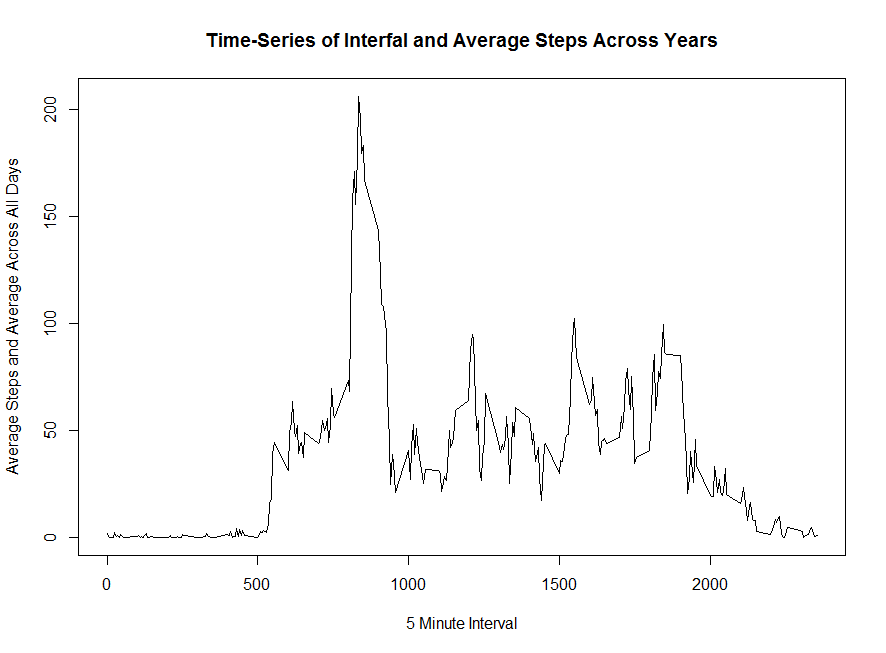
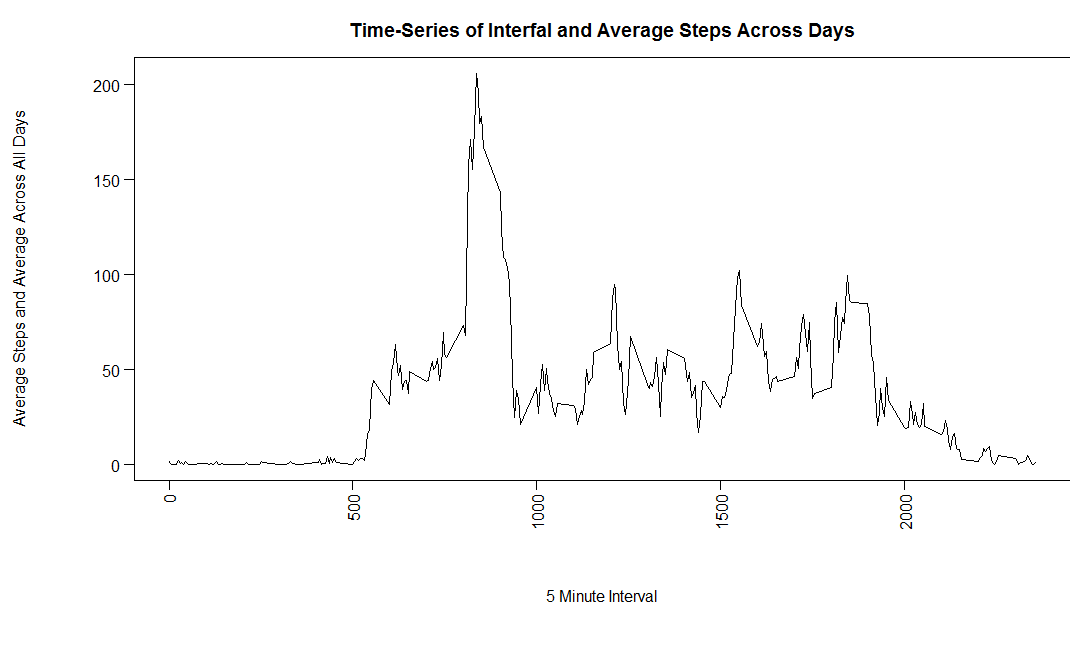
LATEST COMMIT FOR suzet-gm
Correction of a mislabeled chart

diff --git a/PA1_template.html b/PA1_template.html
@@ -212,40 +212,40 @@ median_steps</code></pre>
 <p>A. Same to the previous section, these are the following steps to reach this:</p>
 <pre class="r"><code>steps_interval &lt;- aggregate(steps ~ interval, data = activity, FUN = mean)
 
-colnames(steps_interval) &lt;- c(&quot;Interval&quot;, &quot;AvrgStepsAcrossYrs&quot;)</code></pre>
+colnames(steps_interval) &lt;- c(&quot;Interval&quot;, &quot;AvrgStepsAcrossDays&quot;)</code></pre>
 <p>B. Now we can check a preview of this new constructed data:</p>
 <pre class="r"><code>head(steps_interval)</code></pre>
 <pre><code>```
-    Interval AvrgStepsAcrossYrs
-##1        0            1.71698
-##2        5            0.33962
-##3       10            0.13208
-##4       15            0.15094
-##5       20            0.07547
-##6       25            2.09434
+    Interval AvrgStepsAcrossDays
+##1        0             1.71698
+##2        5             0.33962
+##3       10             0.13208
+##4       15             0.15094
+##5       20             0.07547
+##6       25             2.09434
 
 ```</code></pre>
 <p>C. Now we can create a Time-Series plot from the above dataset:</p>
 <pre class="r"><code>with(steps_interval, {
     plot(
       x=Interval,
-      y=AvrgStepsAcrossYrs,
+      y=AvrgStepsAcrossDays,
       type=&quot;l&quot;,
-      main=&quot;Time-Series of Interfal and Average Steps Across Years&quot;,
+      main=&quot;Time-Series of Interfal and Average Steps Across Days&quot;,
       xlab=&quot;5 Minute Interval&quot;,
       ylab=&quot;Average Steps and Average Across All Days&quot;
       )
 })</code></pre>
[2 lines of base64/hex data omitted]
 <blockquote>
 <ol start="2" style="list-style-type: decimal">
 <li>Which 5-minute interval, on average across all the days in the dataset, contains the maximum number of steps?</li>
 </ol>
 </blockquote>
-<pre class="r"><code>intervalMax &lt;- steps_interval[steps_interval$AvrgStepsAcrossYrs==max(steps_interval$AvrgStepsAcrossYrs),]</code></pre>
+<pre class="r"><code>intervalMax &lt;- steps_interval[steps_interval$AvrgStepsAcrossDays==max(steps_interval$AvrgStepsAcrossDays),]</code></pre>
 <pre><code>  ```
-        Interval AvrgStepsAcrossYrs
-  ##104      835              206.2
+        Interval AvrgStepsAcrossDays
+  ##104      835               206.2
   
   ```</code></pre>
 <p>From the output above we can see that the interval between <strong>835</strong> and <strong>840</strong> minutes has the maximum number of steps.</p>

diff --git a/PA1_template.md b/PA1_template.md
@@ -178,7 +178,7 @@ A. Same to the previous section, these are the following steps to reach this:
 ```r
 steps_interval <- aggregate(steps ~ interval, data = activity, FUN = mean)
 
-colnames(steps_interval) <- c("Interval", "AvrgStepsAcrossYrs")
+colnames(steps_interval) <- c("Interval", "AvrgStepsAcrossDays")
 ```
 
 
@@ -191,13 +191,13 @@ head(steps_interval)
 
 
     ```
-        Interval AvrgStepsAcrossYrs
-    ##1        0            1.71698
-    ##2        5            0.33962
-    ##3       10            0.13208
-    ##4       15            0.15094
-    ##5       20            0.07547
-    ##6       25            2.09434
+        Interval AvrgStepsAcrossDays
+    ##1        0             1.71698
+    ##2        5             0.33962
+    ##3       10             0.13208
+    ##4       15             0.15094
+    ##5       20             0.07547
+    ##6       25             2.09434
 
     ```
 
@@ -208,9 +208,9 @@ C. Now we can create a Time-Series plot from the above dataset:
 with(steps_interval, {
     plot(
       x=Interval,
-      y=AvrgStepsAcrossYrs,
+      y=AvrgStepsAcrossDays,
       type="l",
-      main="Time-Series of Interfal and Average Steps Across Years",
+      main="Time-Series of Interfal and Average Steps Across Days",
       xlab="5 Minute Interval",
       ylab="Average Steps and Average Across All Days"
       )
@@ -226,12 +226,12 @@ with(steps_interval, {
 
 
 ```r
-intervalMax <- steps_interval[steps_interval$AvrgStepsAcrossYrs==max(steps_interval$AvrgStepsAcrossYrs),]
+intervalMax <- steps_interval[steps_interval$AvrgStepsAcrossDays==max(steps_interval$AvrgStepsAcrossDays),]
 ```
 
       ```
-            Interval AvrgStepsAcrossYrs
-      ##104      835              206.2
+            Interval AvrgStepsAcrossDays
+      ##104      835               206.2
       
       ```
 From the output above we can see that the interval between **835** and  **840** minutes has the maximum number of steps.
